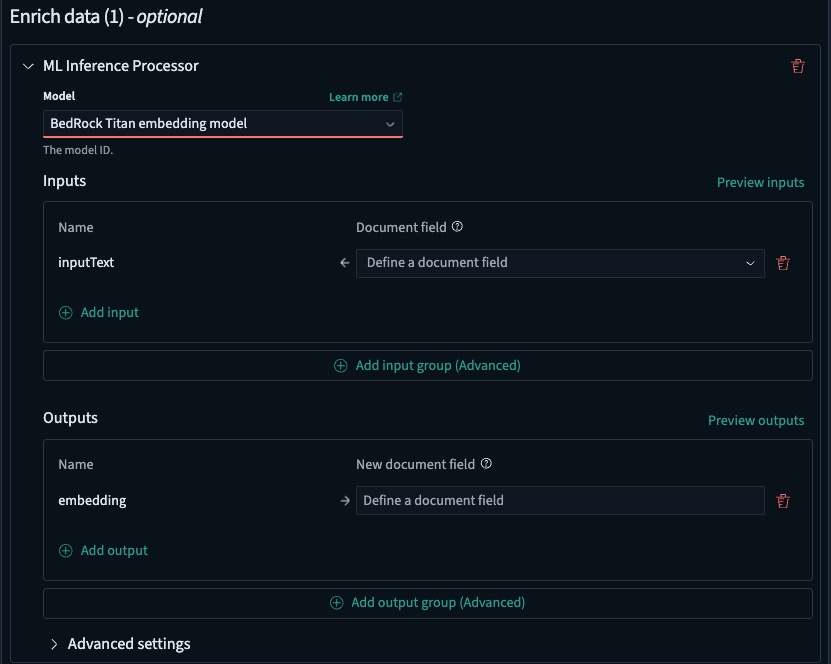
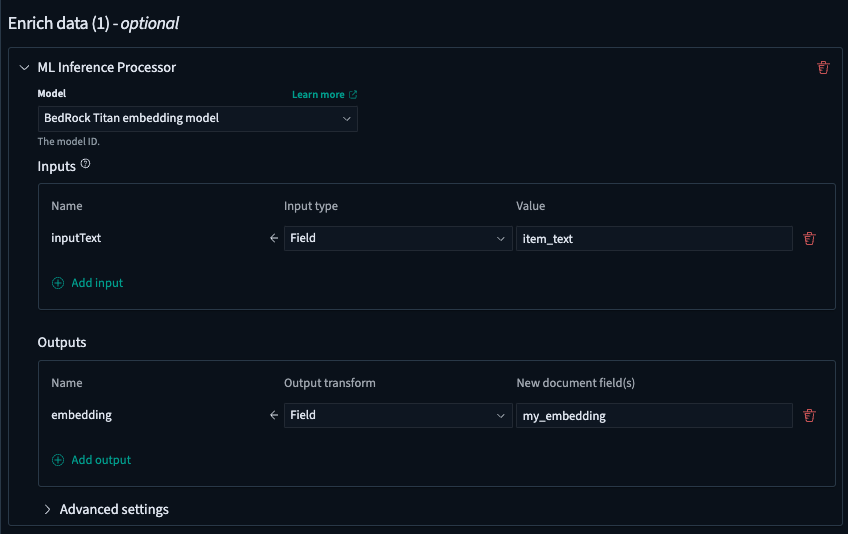
Update tutorial 11/27 (#506)
(cherry picked from commit 4f9908318c45c0ff68cbab84724d834536547f6c)

diff --git a/public/pages/workflow_detail/workflow_inputs/processor_inputs/ml_processor_inputs/modals/configure_expression_modal.tsx b/public/pages/workflow_detail/workflow_inputs/processor_inputs/ml_processor_inputs/modals/configure_expression_modal.tsx
@@ -37,6 +37,8 @@ import {
   TRANSFORM_CONTEXT,
   WorkflowConfig,
   WorkflowFormValues,
+  REQUEST_PREFIX,
+  REQUEST_PREFIX_WITH_JSONPATH_ROOT_SELECTOR,
 } from '../../../../../../../common';
 import {
   formikToPartialPipeline,
@@ -274,9 +276,29 @@ export function ConfigureExpressionModal(props: ConfigureExpressionModalProps) {
                     <EuiFlexItem grow={false}>
                       <EuiFlexGroup direction="row" gutterSize="m">
                         <EuiFlexItem grow={KEY_FLEX_RATIO}>
-                          <EuiText size="s" color="subdued">
-                            {`Expression`}
-                          </EuiText>
+                          <EuiFlexGroup direction="row" gutterSize="none">
+                            <EuiFlexItem grow={false}>
+                              <EuiText size="xs" color="subdued">
+                                {`Expression`}
+                              </EuiText>
+                            </EuiFlexItem>
+                            <EuiFlexItem grow={false}>
+                              <EuiIconTip
+                                content={`Define JSONPath to transform the ${
+                                  props.context ===
+                                  PROCESSOR_CONTEXT.SEARCH_REQUEST
+                                    ? 'query'
+                                    : 'document'
+                                } to map to a model input field.${
+                                  props.context ===
+                                  PROCESSOR_CONTEXT.SEARCH_RESPONSE
+                                    ? ` Or, if you'd like to include data from the the original query request, prefix your mapping with "${REQUEST_PREFIX}" or "${REQUEST_PREFIX_WITH_JSONPATH_ROOT_SELECTOR}" - for example, "_request.query.match.my_field"`
+                                    : ''
+                                }`}
+                                position="right"
+                              />
+                            </EuiFlexItem>
+                          </EuiFlexGroup>
                         </EuiFlexItem>
                         <EuiFlexItem grow={VALUE_FLEX_RATIO}>
                           <EuiText size="s" color="subdued">

diff --git a/public/pages/workflow_detail/workflow_inputs/processor_inputs/ml_processor_inputs/modals/configure_template_modal.tsx b/public/pages/workflow_detail/workflow_inputs/processor_inputs/ml_processor_inputs/modals/configure_template_modal.tsx
@@ -24,6 +24,7 @@ import {
   EuiSmallButtonIcon,
   EuiSpacer,
   EuiCopy,
+  EuiIconTip,
 } from '@elastic/eui';
 import {
   customStringify,
@@ -374,12 +375,24 @@ export function ConfigureTemplateModal(props: ConfigureTemplateModalProps) {
                     </EuiFlexItem>
                     <EuiSpacer size="s" />
                     <EuiFlexItem grow={false}>
-                      <EuiText size="m">Input variables</EuiText>
+                      <EuiFlexGroup direction="row" gutterSize="xs">
+                        <EuiFlexItem grow={false}>
+                          <EuiText size="m">Input variables</EuiText>
+                        </EuiFlexItem>
+                        <EuiFlexItem grow={false}>
+                          <EuiIconTip
+                            content={`Define input variables with JSONPath to extract out source data. 
+                              Inject into the prompt by clicking the "Copy" button and pasting into the prompt.`}
+                            position="right"
+                          />
+                        </EuiFlexItem>
+                      </EuiFlexGroup>
                     </EuiFlexItem>
                     <EuiFlexItem grow={false}>
                       <EuiFlexGroup
                         direction="row"
                         justifyContent="spaceAround"
+                        gutterSize="s"
                       >
                         <EuiFlexItem grow={KEY_FLEX_RATIO}>
                           <EuiText size="s" color="subdued">

diff --git a/public/pages/workflow_detail/workflow_inputs/processor_inputs/ml_processor_inputs/modals/configure_multi_expression_modal.tsx b/public/pages/workflow_detail/workflow_inputs/processor_inputs/ml_processor_inputs/modals/configure_multi_expression_modal.tsx
@@ -21,6 +21,7 @@ import {
   EuiSmallButtonEmpty,
   EuiSpacer,
   EuiSmallButtonIcon,
+  EuiIconTip,
 } from '@elastic/eui';
 import {
   customStringify,
@@ -244,9 +245,20 @@ export function ConfigureMultiExpressionModal(
                     <EuiFlexItem grow={false}>
                       <EuiFlexGroup direction="row" gutterSize="s">
                         <EuiFlexItem grow={KEY_FLEX_RATIO}>
-                          <EuiText size="s" color="subdued">
-                            {`Expressions`}
-                          </EuiText>
+                          <EuiFlexGroup direction="row" gutterSize="xs">
+                            <EuiFlexItem grow={false}>
+                              <EuiText size="s" color="subdued">
+                                {`Expression`}
+                              </EuiText>
+                            </EuiFlexItem>
+                            <EuiFlexItem grow={false}>
+                              <EuiIconTip
+                                content={`Define any number of JSONPath transforms to extract out parts of the model output's source data and 
+                              store in new document fields.`}
+                                position="right"
+                              />
+                            </EuiFlexItem>
+                          </EuiFlexGroup>
                         </EuiFlexItem>
                         <EuiFlexItem grow={VALUE_FLEX_RATIO}>
                           <EuiText size="s" color="subdued">

diff --git a/public/pages/workflow_detail/workflow_inputs/processor_inputs/ml_processor_inputs/model_outputs.tsx b/public/pages/workflow_detail/workflow_inputs/processor_inputs/ml_processor_inputs/model_outputs.tsx
@@ -180,7 +180,7 @@ export function ModelOutputs(props: ModelOutputsProps) {
                           <EuiFlexGroup direction="row" gutterSize="xs">
                             <EuiFlexItem grow={false}>
                               <EuiText size="s" color="subdued">
-                                {`Output transform`}
+                                {`Transform type`}
                               </EuiText>
                             </EuiFlexItem>
                           </EuiFlexGroup>
@@ -269,7 +269,7 @@ export function ModelOutputs(props: ModelOutputsProps) {
                                   <SelectWithCustomOptions
                                     fieldPath={`${outputMapFieldPath}.${idx}.value.transformType`}
                                     options={TRANSFORM_OPTIONS}
-                                    placeholder={`Output transform`}
+                                    placeholder={`Transform type`}
                                     allowCreate={false}
                                     onChange={() => {
                                       // If the transform type changes, clear any set value and/or nested vars,

diff --git a/public/pages/workflow_detail/workflow_inputs/processor_inputs/ml_processor_inputs/model_inputs.tsx b/public/pages/workflow_detail/workflow_inputs/processor_inputs/ml_processor_inputs/model_inputs.tsx
@@ -263,7 +263,7 @@ export function ModelInputs(props: ModelInputsProps) {
                           <EuiFlexGroup direction="row" gutterSize="xs">
                             <EuiFlexItem grow={false}>
                               <EuiText size="s" color="subdued">
-                                {`Input type`}
+                                {`Transform type`}
                               </EuiText>
                             </EuiFlexItem>
                           </EuiFlexGroup>
@@ -348,7 +348,7 @@ export function ModelInputs(props: ModelInputsProps) {
                                   <SelectWithCustomOptions
                                     fieldPath={`${inputMapFieldPath}.${idx}.value.transformType`}
                                     options={TRANSFORM_OPTIONS}
-                                    placeholder={`Input type`}
+                                    placeholder={`Transform type`}
                                     allowCreate={false}
                                     onChange={() => {
                                       // If the transform type changes, clear any set value and/or nested vars,

diff --git a/common/interfaces.ts b/common/interfaces.ts
@@ -155,18 +155,6 @@ export type RequestFormValues = {
   request: ConfigFieldValue;
 };
 
-// Input transform modal
-export type InputTransformFormValues = {
-  input_map: InputMapArrayFormValue;
-  one_to_one: ConfigFieldValue;
-};
-
-// Output transform modal
-export type OutputTransformFormValues = {
-  output_map: MapArrayFormValue;
-  full_response_path: ConfigFieldValue;
-};
-
 // Configure template modal
 export type TemplateFormValues = Omit<Transform, 'transformType'>;
 

diff --git a/documentation/tutorial.md b/documentation/tutorial.md
@@ -1,6 +1,13 @@
-The following tutorial is an accurate representation of the experimental OpenSearch Flow OSD Plugin as of 11/18/2024, based on OSD 2.18.
+The following tutorial is an accurate representation of the experimental OpenSearch Flow OSD Plugin as of 11/27/2024, based on OSD 2.18.
+
+Changelog:
+
+- Initially created 11/18/2024
+- Updated on 11/27/2024 after input/output transform design was overhauled. See PR #504
 
 # Tutorial
+
+For an overview of the plugin, please see [README](../README.md)
 
 ## 1. Provision ML resources
 
@@ -58,24 +65,27 @@ You can now enrich your data by building out an ingest pipeline & chaining toget
 
 ![enrich-data](./images/enrich-data.png)
 
-Continuing with the semantic search example, we will now select and configure an ML inference processor to embed my input text. I have a deployed Amazon Bedrock Titan text embedding model. The model expects a single input called "inputText", and returns a single output called "embedding".
+Continuing with the semantic search example, you can now select and configure an ML inference processor to embed the input text. This cluster has a deployed Amazon Bedrock Titan text embedding model. The model has a defined interface, and expects a single input called `inputText`, and returns a single output called `embedding`.
+
+This is where you can now map data to and from the model inputs and outputs, respectively. "Inputs" allows selecting and transforming the data to conform to the expected model inputs. "Outputs" allows selecting and transforming the model outputs to new fields. There are different types of transformations you can do, including field-level mapping (extracting out a document field value), expressions (more complex transformations using [JSONPath](https://en.wikipedia.org/wiki/JSONPath)), and others. For this example, you can just select the `item_text` field to map to the `inputText` model input, and map the output `embedding` field to a new document field called `my_embedding`. _(Behind the scenes, this is configuring the "input_map" and "output_map" configuration settings for [ML inference ingest processors](https://opensearch.org/docs/latest/ingest-pipelines/processors/ml-inference/))_
 
 ![ml-config-ingest](./images/ml-config-ingest.png)
 
-This is where you can now flexibly configure your data via the "Inputs" and "Outputs" sections. "Inputs" allows you to select and transform your data to conform to the expected model inputs. "Outputs" allows you to select and transforms your model outputs to new document fields. You can either select a document field from the dropdown, or perform more detailed transformation using dot notation or [JSONPath](https://en.wikipedia.org/wiki/JSONPath). _(Behind the scenes, this is configuring the "input_map" and "output_map" configuration settings for [ML inference ingest processors](https://opensearch.org/docs/latest/ingest-pipelines/processors/ml-inference/))_
+Click "Save" to return to the form.
 
-For this example, we can just select the "item_text" field to map to the "inputText" model input, and creating a new document field called "my_embedding" to persist the returned generated embedding from the model:
+### Aside: advanced data transformations
 
-![input-config-ingest](./images/input-config-ingest.png)
-![output-config-ingest](./images/output-config-ingest.png)
+Continuing with the above example, let's suppose the input data (the document) is more complex, and a simple field-level mapping is not sufficient. Maybe you need to parse out some nested field's value. This can be done by changing the transform type to `Expression`
 
-For a more detailed look into these transformations, and to verify that they will be valid, you can click the associated "Preview inputs/output" button on the right-hand side. "Preview inputs" allows you to see how the input data (the source document) will be transformed. You can click "Fetch data" to fetch a sample document. There is some helpful visual elements to determine whether the transformed input meets the model interface requirements. You can also view the explicit [JSON Schema](https://json-schema.org/) input interface by clicking "Input schema" on the right-hand side. The top "Define transform" section allows you to edit the transformation directly. You can cancel or save & update the transformation after testing. "Preview outputs" is very similar - it allows you to fetch the model outputs (NOTE: this will execute actual model inference and incur costs - this should be run with caution), and see how it is transformed. You can also view the explicit output interface by clicking the "Output schema" button.
+![expression-ingest](./images/expression-ingest.png)
 
-The below images show how the transforms map the "item_text" field into an "inputText" field expected by the model, and how the "embedding" model output is saved as a new "my_embedding" field in the document.
+From there, click "Configure" to open the "Extract data with expression" modal. On the right-hand side, you can click "Run preview" to fetch the input data to this processor.
 
-![advanced-input-ingest](./images/advanced-input-ingest.png)
+![expression-modal-ingest](./images/expression-modal-ingest.png)
 
-![advanced-output-ingest](./images/advanced-output-ingest.png)
+On the left-hand side, you can define a [JSONPath](https://en.wikipedia.org/wiki/JSONPath) transform to parse out the data you want. Suppose it is the description, "red shoes". You can write some JSONPath to pull out this data - `$.item.description`. The transformed value will appear under the "Extracted data" box in the lower-right-hand corner as you define your JSONPath. For models with defined [JSON Schema](https://json-schema.org/) interfaces, you will see a marker indicating whether the transform is valid or invalid for that particular model field (in this case, `inputText`):
+
+![expression-modal-ingest-validated](./images/expression-modal-ingest-validated.png)
 
 ## 7. Ingest data
 
@@ -423,7 +433,7 @@ Ensure the index settings include `index.knn: true`, & mappings have a `knn_vect
 
 ### Ingest pipeline
 
-Single ML inference processor. Map your input text to the `inputText`model input field. Optionally map the output `embedding`to a new document field.
+Single ML inference processor. Map your input text to the `inputText` model input field. Optionally map the output `embedding` to a new document field.
 
 ### Search pipeline
 
@@ -431,7 +441,7 @@ An ML inference **search request** processor & normalization processor.
 
 **For the ML inference processor:**
 
-Map the query field containing the input text to the `inputText` model input field. Optionally map the output `embedding`to a new field. Override the query to a hybrid query. See example below. Ensure to set the `embedding_field`, `text_field`, & `text_field_input`:
+Map the query field containing the input text to the `inputText` model input field. Optionally map the output `embedding` to a new field. Override the query to a hybrid query. See example below. Ensure to set the `embedding_field`, `text_field`, & `text_field_input`:
 
 ```
 {
@@ -472,15 +482,13 @@ Configure weights for each sub-query. You may refer to the [hybrid search normal
 
 ## 3. Basic RAG (document summarization)
 
-NOTE: RAG UX is rapidly changing. Specifically, around prompt building. Current experience has basic logic to look for a `prompt` field in the connector details. The below example connector blueprint and model configuration will work smoothly. But, if you have a custom connector / model, and if there is no `prompt `field found, we do not display the "Configure prompt" button and associated dedicated modal for it. This will need to be manually configured under "Model config" advanced settings, under the ML inference processor. Example:
+NOTE: the below connector blueprint & model interface may change over time. The following example uses a connector blueprint that abstracts a lot of the complexity around the [Claude v1 messages API](https://docs.anthropic.com/en/api/getting-started#examples), exposing only a single `prompt` field as input in the model. An example input may look like the following, with placeholders containing dynamically-fetched results:
 
 ```
 {
   "prompt": "Human: You are a professional data analyist. You are given a list of document results. You will analyze the data and generate a human-readable summary of the results. If you don't know the answer, just say I don't know.\n\n Results: ${parameters.results.toString()}\n\n Human: Please summarize the results.\n\n Assistant:"
 }
 ```
-
-Future iterations of the UX will make this more generic and easily flexible to configure templates and map to any model input field you'd like. _Additionally, the sample connector and model blueprints may become more generic and aligned with the underlying service APIs (e.g., the Claude conversational API, which can accept an array of messages)._
 
 ### Connector (Bedrock Claude V3 model)
 
@@ -504,7 +512,6 @@ POST /_plugins/_ml/connectors/_create
         "max_tokens_to_sample": "8000",
         "anthropic_version": "bedrock-2023-05-31",
         "model": "anthropic.claude-3-sonnet-20240229-v1:0",
-        "results": "",
         "prompt": ""
     },
     "actions": [
@@ -538,14 +545,14 @@ POST /_plugins/_ml/models/_register
                 "parameters": {
                     "type": "object",
                     "properties": {
-                        "results": {
-                            "type": "array",
-                            "description": "The array of results."
+                        "prompt": {
+                            "type": "string",
+                            "description": "The prompt."
                         }
                     },
                     "additionalProperties": true,
                     "required": [
-                        "results"
+                        "prompt"
                     ]
                 }
             }
@@ -613,7 +620,7 @@ Nothing special needs to be configured.
 
 ### Search pipeline
 
-Single ML inference **search response** processor. Map the document field containing the details you want to summarize to the `results` model input field. For example, if you have documents containing a `review` field, and you want to summarize all of the reviews in the returned documents, select `review`. Leave `one_to_one` set to the default `false` value. This way, all of the `review` values are compiled into a single list and passed as one input to the LLM. Next, configure a prompt - you can choose the summarization preset for your convenience. Be sure to inject `results` (the model input) somewhere in the prompt to include at runtime.
+Single ML inference **search response** processor. Choose `Template` as the transform type for the `prompt` input field. Open up the template configuration by clicking "Configure". Select a preset to start with for your convenience. Then, create an input variable that parses out the list of reviews, something like `review`. Inject the variable into the prompt by copying and pasting it. Click "Run preview" to test that the final transformed prompt with sample dynamic data looks as expected. Click "Save" to save and exit.
 
 ---
 
